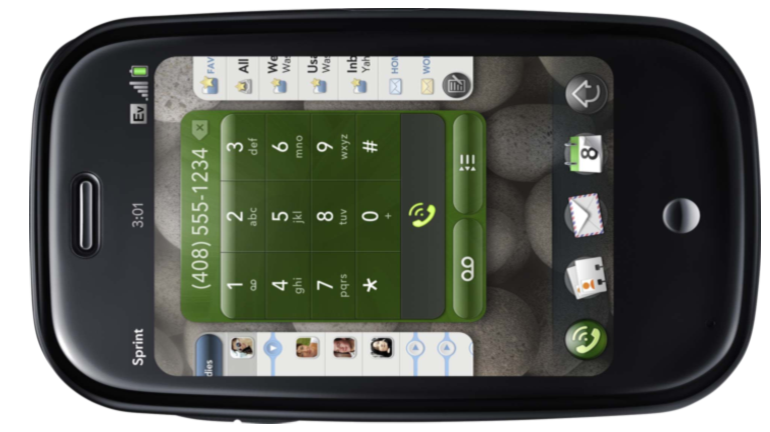
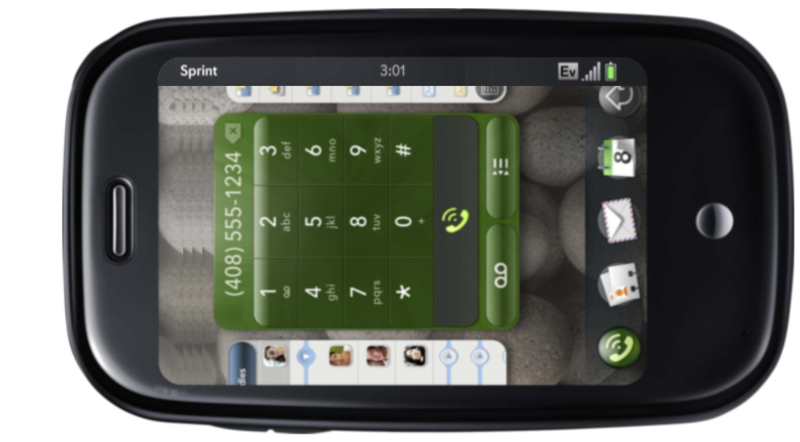
Updated emulators

diff --git a/app/stylesheets/emulators/palm.landscape.scss b/app/stylesheets/emulators/palm.landscape.scss
@@ -3,14 +3,14 @@
 .palm .emulator {
   margin-top: 160px;
   background: image_url("emulators/palm.pre.landscape.png") no-repeat;
-  width: 770px;
-  height: 432px;
+  width: 800px;
+  height: 442px;
   .display-area {
     position: relative;
-    top: 56px;
-    width: 460px;
-    height: 320px;
-    max-height: 320px;
+    top: 85px;
+    width: 480px;
+    height: 300px;
+    max-height: 300px;
     color: #ffffff;
     a {
       color: #ff5500; } } }

diff --git a/app/stylesheets/emulators/iphone.landscape.scss b/app/stylesheets/emulators/iphone.landscape.scss
@@ -7,10 +7,10 @@
   height: 420px;
   .display-area {
     position: relative;
-    top: 50px;
-    width: 460px;
-    height: 320px;
-    max-height: 320px;
+    top: 70px;
+    width: 480px;
+    height: 300px;
+    max-height: 300px;
     color: #ffffff;
     a {
       color: #ff5500; } } }

diff --git a/db/navigation.seeds.rb b/db/navigation.seeds.rb
@@ -576,12 +576,16 @@ parent_id = node_421
 node_422 = NavigationTree.create_node(:id => parent_id, :seed => true, :position => 0, :title => 'txt.emu.jqm.default', :type => 'default', :icon => '/images/icons/16x16/jqmobile.png', :url => '/emulators/iphone_portrait/jqm')
 node_423 = NavigationTree.create_node(:id => parent_id, :seed => true, :position => 1, :title => 'txt.emu.jqm.experiments', :type => 'default', :icon => '/images/icons/16x16/jqmobile.png', :url => '/emulators/iphone_portrait/jqm2')
 node_424 = NavigationTree.create_node(:id => parent_id, :seed => true, :position => 2, :title => 'txt.emu.jqm.home', :type => 'default', :icon => '/images/icons/16x16/jqmobile.png', :url => '/emulators/iphone_portrait/jqm_original')
+node_474 = NavigationTree.create_node(:id => parent_id, :seed => true, :position => 3, :title => 'txt.emu.jqt.default', :type => 'default', :icon => '/images/icons/16x16/jqtouch.png', :url => '/emulators/iphone_portrait/jqt')
+node_476 = NavigationTree.create_node(:id => parent_id, :seed => true, :position => 4, :title => 'txt.emu.jqt.home', :type => 'default', :icon => '/images/icons/16x16/jqtouch.png', :url => '/emulators/iphone_portrait/jqt_original')
 parent_id = node_420
 node_425 = NavigationTree.create_node(:id => parent_id, :seed => true, :position => 1, :title => 'txt.emu.land', :type => 'folder', :icon => '/images/icons/16x16/landscape.png')
 parent_id = node_425
 node_426 = NavigationTree.create_node(:id => parent_id, :seed => true, :position => 0, :title => 'txt.emu.jqm.default', :type => 'default', :icon => '/images/icons/16x16/jqmobile.png', :url => '/emulators/iphone_landscape/jqm')
 node_427 = NavigationTree.create_node(:id => parent_id, :seed => true, :position => 1, :title => 'txt.emu.jqm.experiments', :type => 'default', :icon => '/images/icons/16x16/jqmobile.png', :url => '/emulators/iphone_landscape/jqm2')
 node_428 = NavigationTree.create_node(:id => parent_id, :seed => true, :position => 2, :title => 'txt.emu.jqm.home', :type => 'default', :icon => '/images/icons/16x16/jqmobile.png', :url => '/emulators/iphone_landscape/jqm_original')
+node_477 = NavigationTree.create_node(:id => parent_id, :seed => true, :position => 3, :title => 'txt.emu.jqt.default', :type => 'default', :icon => '/images/icons/16x16/jqtouch.png', :url => '/emulators/iphone_landscape/jqt')
+node_478 = NavigationTree.create_node(:id => parent_id, :seed => true, :position => 4, :title => 'txt.emu.jqt.home', :type => 'default', :icon => '/images/icons/16x16/jqtouch.png', :url => '/emulators/iphone_landscape/jqt_original')
 parent_id = node_420
 parent_id = node_401
 node_429 = NavigationTree.create_node(:id => parent_id, :seed => true, :position => 3, :title => 'txt.emu.palm', :type => 'folder', :icon => '/images/icons/16x16/palm.png')
